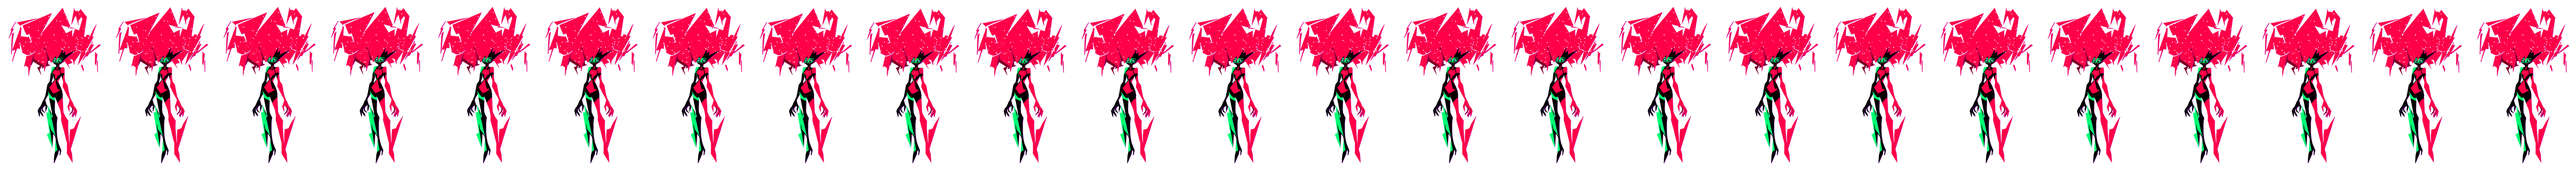
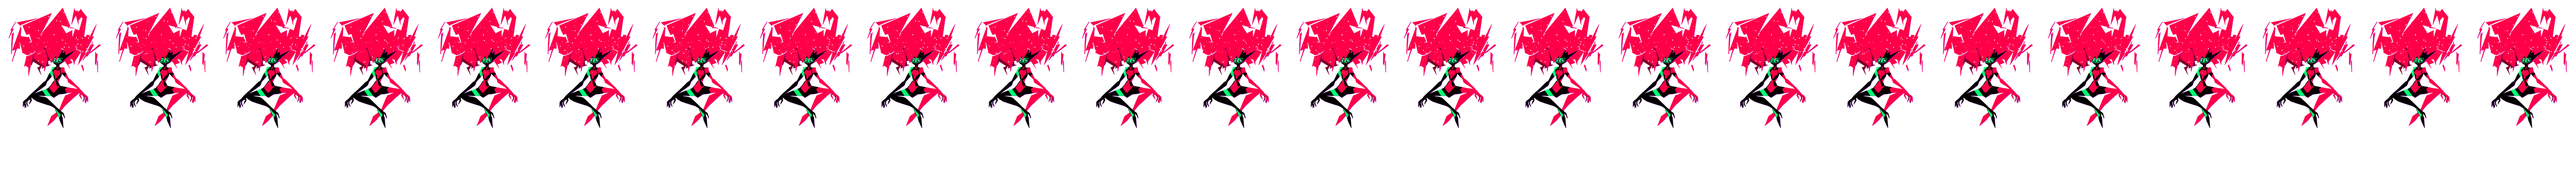
New fullscreen entrance intro, held pose, talking mouth, subtler vibe, faster startup

diff --git a/capri/desk/capri.py b/capri/desk/capri.py
@@ -23,7 +23,8 @@ from . import sfx as sfx_mod
 from .fx import CYAN, PINK, WHITE, Fx, FxLayer
 from .doormenu import INSIDE, DoorMenu
 from .mini import Chip, sample_chip
-from .portal import BOOT as SCREEN_BOOT, FACE as SCREEN_FACE, OUT as SCREEN_OFF, STAMP as SCREEN_STAMP, Portal
+from . import splash
+from .portal import FACE as SCREEN_FACE, Portal
 from .sprites import Sprites
 
 # chat box portrait: crop size, then where her face sits relative to head() standing / sitting (units of her size)
@@ -161,7 +162,8 @@ class Capri:
         self.grab = QPointF()
         self.hist: list[tuple[float, float, float]] = []
         self.intro_only_floor = False
-        self.portal = None  # the transmission card she arrives through (made on her first entrance)
+        self.portal = None  # the transmission card she leaves through (made when she quits)
+        self.entrance = None  # her intro flipbook (splash.py); its frames start loading right away when she has an intro
         self.told_zoomed = False
         self.greeting = None  # set by the app: () -> her hello line (a recorded one when her voice is on)
         self._screen_faces: dict = {}
@@ -180,6 +182,7 @@ class Capri:
             self.top_timer.timeout.connect(self._topmost)
             self.top_timer.start(1500)
         if intro:
+            self._new_entrance()
             QTimer.singleShot(400, self.drop_in)
         elif start:
             g = ledges.work_area(scr)
@@ -339,6 +342,8 @@ class Capri:
         target = pulse if playing else 0.0
         self.vibe = max(target, self.vibe * 0.88)
         self.fx.step(dt)
+        if self.entrance is not None and self.entrance.isVisible() and self.mode != "intro":
+            self.entrance.step()  # its last frame still fading out over her
         if self.portal is not None and self.portal.isVisible():
             self.portal.step()
             if self.portal.done:
@@ -381,7 +386,9 @@ class Capri:
         if self.blink and self.clip in ("idle", "perch") and 6 <= self.frame < 10:
             self.shown, self.frame = self.blink, self.frame - 6
         self.mouth = -1
-        if self.speaking and self.shown == "idle":
+        if self.speaking and self.shown == "grin":  # her hello lands mid-grin: talk with her mouth, not the grin
+            self.shown = "idle"
+        if self.speaking and self.shown in ("idle", "blink", "blink_glitch"):  # the mouth flaps over her standing face
             self.mouth = int(self.now * 12 + 0.5) % 5 if int(self.now * 12) % 4 else 0
 
     def draw(self, p: QPainter):
@@ -410,7 +417,7 @@ class Capri:
                 sy *= 1 - amt
                 sx *= 1 + amt * 0.7
         p.translate(self.A)
-        p.translate(0, (breathe if self.mode == "stand" else 0) - self.vibe * 3 * self.k)
+        p.translate(0, (breathe if self.mode == "stand" else 0) - self.vibe * 1.2 * self.k)  # a small bob on the beat
         p.rotate(self.angle + tilt)
         mid = 0.5 * self.S if self.mode == "bye" else 0.0
         p.translate(0, -mid)
@@ -425,7 +432,7 @@ class Capri:
             for dx, dy in ((-3, 0), (3, 0), (0, -3), (0, 3)):
                 p.drawPixmap(tl + QPointF(dx * self.k, dy * self.k), c.white(self.frame))
             p.restore()
-        if self.vibe > 0.35 and self.mode in ("stand", "perch") and self.white < 0.05:
+        if self.vibe > 0.5 and self.mode in ("stand", "perch") and self.white < 0.05:
             pm = self._vibed(c, pm)  # on the beat: bands of her hair jump sideways
         p.drawPixmap(tl, pm)
         if self.mouth >= 0:
@@ -564,10 +571,10 @@ class Capri:
         d, k, v = c.dpr, self.k, self.vibe
         top, bottom = c.h * (0.03 if self.mode == "stand" else 0.16), c.h * (0.42 if self.mode == "stand" else 0.45)
         rnd = random.Random(int(self.now * 12))
-        for _ in range(2 + (v > 0.7)):
-            hh = rnd.uniform(5, 14) * k
+        for _ in range(1 + (v > 0.85)):  # barely vibing: one thin band, a second only on a big beat
+            hh = rnd.uniform(3, 8) * k
             y0 = rnd.uniform(top, bottom - hh)
-            dx = rnd.choice((-1, 1)) * rnd.uniform(3, 9) * k * v
+            dx = rnd.choice((-1, 1)) * rnd.uniform(1, 3.5) * k * v
             band = QRectF(0, y0, c.w, hh)
             q.setCompositionMode(QPainter.CompositionMode_Clear)
             q.fillRect(band, Qt.transparent)
@@ -591,23 +598,21 @@ class Capri:
 
     # -- intro: the sky tears open and she drops out ------------------------------
     def drop_in(self, greet=True, x_frac=None):
-        """Her entrance: an "incoming transmission" card glides in at the top right and decrypts her signal, then
-        she pours out of it as a stream of pixels, rebuilds on your desktop and says hi."""
+        """Her entrance: the intro flipbook fills the screen, shrinks onto the spot she lands on, and she rebuilds
+        out of where it ends, then says hi. (x_frac is ignored: the animation picks where she lands.)"""
         self.bubble.close_bubble()
         scr = QGuiApplication.primaryScreen()
         work = ledges.work_area(scr)
-        self.ix = work.left() + work.width() * (x_frac if x_frac is not None else random.uniform(0.55, 0.8))
-        if self.portal is None:
-            self.portal = Portal(self.k, self._screen_face)
-        self.portal.start(work)  # the transmission card glides in at the top-right corner
-        self.iy = work.bottom() + 1
+        if self.entrance is None or self.entrance.S != self.S or self.entrance.done:
+            self._new_entrance()
+        self.entrance.landed = False
+        self.aim_at = (QRectF(scr.geometry()), work.bottom() + 1)  # fills the screen, ends where she lands
         self.body.hide()
         self.seat = None
         self.say_after = ((self.greeting() if self.greeting else None)
                           or random.choice(i18n.tlist("lines.greetings", GREETINGS))) if greet else None
         self.set_mode("intro")
-        self.stage = 0
-        self.sfx.play("tear")
+        self.sfx.play("charge")
 
     def _screen_face(self, t: float):
         """Her face for the card's avatar: the standing frames cropped round her head, blinking now and then."""
@@ -634,49 +639,29 @@ class Capri:
         self._screen_faces[key] = out
         return out
 
-    def _intro_step(self):
-        P = self.portal
-        t = P.t
-        P.step()
-        g = P.screen_rect()
-        c = g.center()
-        if self.stage == 0 and t > SCREEN_BOOT:  # brackets locked on: a quick ring of speed lines, the screen hums on
-            self.stage = 1
-            self.sfx.play("charge")
-            self.fx.burst(c.x(), c.y(), 8, r0=0.62 * g.height() / self.k, r1=110, life=0.3, width=(2, 6),
-                          colors=(WHITE, PINK))
-        elif self.stage == 1 and t > SCREEN_STAMP:  # the sticker slaps on: lines shoot out behind it
-            self.stage = 2
-            self.fx.burst(g.left() - 50 * self.k, c.y() + 0.18 * g.height(), 7, r0=30, r1=360, life=0.4,
-                          aim=160, spread=70, width=(4, 13))
-        elif self.stage == 2 and t > SCREEN_FACE:  # the screen is down to a dot: she pours out of it
-            self.stage = 3
-            self.fx.burst(c.x(), c.y(), 11, r0=12, r1=560, life=0.45, aim=125, spread=150, width=(5, 18))
-            self._break_out(g)
+    def _new_entrance(self):
+        scr = QGuiApplication.primaryScreen()
+        self.entrance = splash.Entrance(self.S, scr.geometry(), scr.devicePixelRatio())
 
-    def _break_out(self, glass: QRectF):
-        """Out of the dot the screen shut down to: her pixels pour out of it and fly down to the desktop."""
-        work = ledges.work_area(QGuiApplication.primaryScreen())
-        x = work.left() + work.width() * random.uniform(0.35, 0.85)  # a long arc down onto the taskbar
-        x = max(work.left() + 0.5 * self.S, min(work.right() - 0.6 * self.S, x))
-        L = next((f for f in ledges.floors() if f.holds(x)), ledges.floors()[0])
-        self.target = (L, x)
-        step = STREAM_STEP * self.k
-        cx, cy = glass.center().x(), glass.center().y()
-        c = self.sp["idle"]
-        ax, ay = c.anchor
-        src = [(cx + (px - cx) * 0.1, cy + (py - cy) * 0.1, col)  # her, squeezed into the dot
-               for px, py, col in c.sample(0, cx + (ax - 0.5) * c.w, cy + (ay - 0.5) * c.h, step)]
-        pair = self._pair(src, self._target_pixels(L, x, step), step)
-        self.sfx.play("stream")
-        self.fx.flash(cx, cy, 110, life=0.3, color=PINK)
-        self.fx.ring(cx, cy, 120, life=0.4, color=CYAN, width=2)
-        QTimer.singleShot(int((SCREEN_OFF - SCREEN_FACE) * 1000), lambda: self.sfx.play("throw"))
-        if pair:
-            self.stream_T = self.fx.start_stream(*pair, travel=1.0, spread=0.35)
-        else:
-            self.stream_T = 0.2
-        self.set_mode("stream")
+    def _intro_step(self):
+        E = self.entrance
+        if not E.started:  # its frames are still loading (a second at most): start once they're in
+            if not E.ready:
+                return
+            x = E.aim(*self.aim_at)
+            self.target = (next((f for f in ledges.floors() if f.holds(x)), ledges.floors()[0]), x)
+            E.start()
+            if E.done:  # no frames: she just rebuilds where she lands
+                return self.arrive()
+        E.step()
+        if E.landed:  # the animation ends on her: she rebuilds right there as it gets sucked into her
+            self.arrive()
+            cx, cy = self.center()
+            self.fx.flash(cx, cy, 190, life=0.45, color=WHITE)
+            self.fx.burst(cx, cy, 12, r0=0.35 * self.S / self.k, r1=420, life=0.4, width=(3, 12), colors=(WHITE, PINK, CYAN))
+            self.fx.ring(cx, cy, 260, life=0.5, color=PINK, width=2.4)
+            self.white = 1.0
+            self.squash_t, self.squash_amt = self.now, 0.16
 
     # -- falling (thrown, dropped, or knocked off a window) -------------------------
     def _fall_step(self, dt):
@@ -1227,7 +1212,9 @@ class Capri:
             timer = QTimer()
 
             def check():
-                if not self.talk_open and self.bubble.typed_all():
+                # done once it's all typed, or once the bubble got closed mid-line (grabbed, fell): it won't type on,
+                # and waiting for it would leave her talking (mouth flapping) forever
+                if not self.bubble.isVisible() or (not self.talk_open and self.bubble.typed_all()):
                     timer.stop()
                     QTimer.singleShot(200, ended)
 

diff --git a/capri/desk/splash.py b/capri/desk/splash.py
@@ -1,0 +1,166 @@
+"""Her entrance: a flipbook (assets/desk/splash/1.png ... N.png, HD) that fills the whole screen, then, as her pieces
+pull together in the last frames, zips down onto the spot she lands on and gets sucked into her as she rebuilds.
+The frames are loaded and pre-scaled to the screen in threads (sharp, and no stall at startup), and crossfade into
+each other on every tick, so it plays smoothly at any refresh rate."""
+from __future__ import annotations
+
+import threading
+import time
+from concurrent.futures import ThreadPoolExecutor
+
+import numpy as np
+from PySide6.QtCore import QPointF, QRect, QRectF, Qt
+from PySide6.QtGui import QImage, QPainter
+from PySide6.QtWidgets import QWidget
+
+from ..config import ASSETS
+
+FRAME = 0.055  # seconds per frame while it fills the screen
+FAST = 0.032  # seconds per frame once it shrinks onto her
+SHRINK_FROM = 14  # from this frame (0-based) on it shrinks from fullscreen down to her size
+BLEND = 0.4  # the last this-much of each frame crossfades into the next
+FADE_IN = 0.12
+FADE_OUT = 0.28  # after the last frame: it keeps shrinking into her and fades while she rebuilds
+END = (530 / 640, 370 / 480)  # where the animation ends, as a fraction of the frame: her body goes here
+END_H = 170 / 480  # how tall the end shape is, as a fraction of the frame; it ends up about her height
+
+
+def _smooth(x: float) -> float:
+    x = max(0.0, min(1.0, x))
+    return x * x * (3 - 2 * x)
+
+
+class Entrance(QWidget):
+    """aim(screen, floor_y) -> the x she lands at; start() once .ready; step() each tick. .landed turns True when
+    she should appear (it then shrinks into her and fades on its own), .done once it's gone."""
+
+    def __init__(self, size: int, screen: QRect, dpr: float):
+        super().__init__(None, Qt.FramelessWindowHint | Qt.Tool | Qt.WindowStaysOnTopHint | Qt.NoDropShadowWindowHint)
+        self.setAttribute(Qt.WA_TranslucentBackground)
+        self.setAttribute(Qt.WA_ShowWithoutActivating)
+        self.setAttribute(Qt.WA_TransparentForMouseEvents)
+        self.S = size
+        self.frames: list[tuple[QImage, QRectF]] = []  # each frame cropped to its content + where that sits (0..1)
+        self.fw, self.fh = 640, 480  # the frames' shape (overwritten once loaded)
+        self.k_full = 1.0
+        self.end_full = self.end_her = QPointF()
+        self.last, self.t = 0.0, 0.0
+        self.started = self.landed = self.done = False
+        self.ready = False
+        # cover size of this screen in device pixels: frames are scaled to exactly that once, so fullscreen is 1:1
+        self._cover = (screen.width() * dpr, screen.height() * dpr)
+        threading.Thread(target=self._load, daemon=True).start()
+
+    def _load(self):
+        files = sorted((ASSETS / "desk" / "splash").glob("*.png"), key=lambda p: int(p.stem) if p.stem.isdigit() else 0)
+        with ThreadPoolExecutor(4) as pool:  # PNG decoding is most of the time, and it runs in parallel: ~3x faster
+            out = [f for f in pool.map(self._load_one, files) if f is not None]
+        self.frames = out
+        self.done = not out
+        self.ready = True
+
+    def _load_one(self, f) -> tuple[QImage, QRectF] | None:
+        img = QImage(str(f))
+        if img.isNull():
+            return None
+        self.fw, self.fh = img.width(), img.height()
+        k = max(self._cover[0] / img.width(), self._cover[1] / img.height())
+        img = img.convertToFormat(QImage.Format_ARGB32_Premultiplied)
+        img = img.scaled(round(img.width() * k), round(img.height() * k), Qt.IgnoreAspectRatio, Qt.SmoothTransformation)
+        box = _content(img)
+        W, H = img.width(), img.height()
+        return img.copy(box), QRectF(box.x() / W, box.y() / H, box.width() / W, box.height() / H)
+
+    @property
+    def n(self) -> int:
+        return len(self.frames)
+
+    def start_of(self, i: int) -> float:
+        """When frame i starts."""
+        return min(i, SHRINK_FROM) * FRAME + max(0, i - SHRINK_FROM) * FAST
+
+    @property
+    def length(self) -> float:
+        return self.start_of(self.n)
+
+    def aim(self, screen: QRectF, floor_y: float) -> float:
+        """Covers this screen (whatever its size or shape); returns the x her feet land at: under where the
+        animation ends, on the floor."""
+        self.setGeometry(screen.toRect())
+        w, h = screen.width(), screen.height()
+        self.k_full = max(w / self.fw, h / self.fh)  # cover: no bars, no stretching
+        fw, fh = self.fw * self.k_full, self.fh * self.k_full
+        self.end_full = QPointF((w - fw) / 2 + END[0] * fw, (h - fh) / 2 + END[1] * fh)  # widget coords
+        x = screen.left() + self.end_full.x() + 0.05 * self.S  # her center() is 0.05 S left of her feet
+        x = max(screen.left() + 0.5 * self.S, min(screen.right() - 0.6 * self.S, x))
+        self.end_her = QPointF(x - 0.05 * self.S - screen.left(), floor_y - 0.5 * self.S - screen.top())
+        return x
+
+    def start(self):
+        self.last, self.t = time.monotonic(), 0.0
+        self.started = True
+        self.landed = self.done = not self.frames
+        if self.frames:
+            self.show()
+            self.raise_()
+
+    def step(self):
+        if self.done or not self.started:
+            return
+        now = time.monotonic()
+        self.t += min(0.05, now - self.last)  # a hitch (her brain loading at startup) pauses it instead of skipping
+        self.last = now
+        if self.t >= self.length:
+            self.landed = True
+        if self.t >= self.length + FADE_OUT:
+            self.done = True
+            self.hide()
+            return
+        self.update()
+
+    def _frame_at(self, t: float) -> tuple[int, float]:
+        """(frame index, 0..1 crossfade into the next one) at time t."""
+        for i in range(self.n - 1, -1, -1):
+            if t >= self.start_of(i):
+                if i == self.n - 1:
+                    return i, 0.0
+                d = self.start_of(i + 1) - self.start_of(i)
+                return i, _smooth(((t - self.start_of(i)) / d - (1 - BLEND)) / BLEND)
+        return 0, 0.0
+
+    def paintEvent(self, e):
+        if not self.frames:
+            return
+        t = self.t
+        i, mix = self._frame_at(t)
+        s0, s1 = self.start_of(SHRINK_FROM), self.length
+        z = _smooth((t - s0) / (s1 - s0)) if t < s1 else 1.0  # 0 fullscreen .. 1 her size, onto her
+        k_end = 0.8 * self.S / (END_H * self.fh)
+        k = self.k_full * (k_end / self.k_full) ** z
+        alpha = _smooth(t / FADE_IN)
+        if t > s1:  # landed: it keeps shrinking into her body and fades
+            u = _smooth((t - s1) / FADE_OUT)
+            k *= 1 - 0.55 * u
+            alpha *= 1 - u
+        end = self.end_full + (self.end_her - self.end_full) * z
+        fw, fh = self.fw * k, self.fh * k
+        x0, y0 = end.x() - END[0] * fw, end.y() - END[1] * fh
+        p = QPainter(self)
+        p.setRenderHint(QPainter.SmoothPixmapTransform, z > 0)  # fullscreen it's drawn 1:1, no resampling
+        for j, a in ((i, 1 - mix), (i + 1, mix)):
+            if a <= 0 or j >= self.n:
+                continue
+            img, r = self.frames[j]
+            p.setOpacity(alpha * a)
+            p.drawImage(QRectF(x0 + r.x() * fw, y0 + r.y() * fh, r.width() * fw, r.height() * fh), img)
+        p.end()
+
+
+def _content(img: QImage) -> QRect:
+    """The part of the image that isn't fully transparent (whole image if it's all content)."""
+    alpha = img.convertToFormat(QImage.Format_Alpha8)
+    a = np.frombuffer(alpha.constBits(), np.uint8).reshape(alpha.height(), alpha.bytesPerLine())[:, :alpha.width()]
+    ys, xs = np.nonzero(a.any(1))[0], np.nonzero(a.any(0))[0]
+    if not len(ys):
+        return img.rect()
+    return QRect(int(xs[0]), int(ys[0]), int(xs[-1] - xs[0] + 1), int(ys[-1] - ys[0] + 1))

diff --git a/capri/desk/sprites.py b/capri/desk/sprites.py
@@ -88,7 +88,9 @@ class Sprites:
     def __init__(self, size: int, dpr: float = 1.0, folder: Path = SPRITES):  # folder: her skin (capri/skins.py)
         self.size = size
         self.clips = {name: Clip(name, size, dpr, folder) for name in CLIPS}
-        for name in ("blink", "blink_glitch", "grin", "glitch", "wake", "mouth"):  # same stance as idle: no foot jitter
+        # same canvas as idle: no foot jitter (dangle is her held pose, drawn on the same canvas, so grabbing her
+        # doesn't make her jump to wherever that pose's feet are)
+        for name in ("blink", "blink_glitch", "grin", "glitch", "wake", "mouth", "dangle"):
             self.clips[name].anchor = self.clips["idle"].anchor
         self.palette = _palette(folder / "idle.png")
 

diff --git a/capri/config.py b/capri/config.py
@@ -33,7 +33,7 @@ DEFAULTS: dict = {
         "size": 240,  # her height in pixels
         "video_size": 360,  # her height in video mode (big enough for a 9:16 phone crop)
         "roam_seconds": [18, 40],  # she zaps somewhere new every this-many seconds
-        "intro": True,  # the drop-in from the top of the screen on launch
+        "intro": True,  # her entrance on launch (the assets/desk/splash flipbook: fullscreen, then shrinks onto her)
         # these four are first-run defaults; after that her right-click menu remembers your choice
         "dj": False,  # let her swap your YouTube music for Cyberpunk OSTs when she thinks it's not nova
         "vibe": True,  # her hair glitches to the beat of whatever's playing

diff --git a/README.md b/README.md
@@ -1,5 +1,5 @@
 <p align="center">
-  <img src="docs/images/entrance.gif" height="260" alt="Capri's entrance: a signal-lock screen in the corner, then she pours out of it as pixels">
+  <img src="docs/images/entrance.gif" height="260" alt="Capri's entrance: a fullscreen glitch animation that shrinks down onto your desktop, and she bursts out of it">
   <img src="docs/images/talking.gif" height="260" alt="Capri talking in her speech bubble">
 </p>
 <p align="center">
@@ -71,7 +71,7 @@
 
 ## First start
 
-- She drops in through a little signal-lock screen in the top-right corner and says hi.
+- She bursts in: a glitchy animation fills your screen, shrinks down onto your desktop, and she pops out of it and says hi.
 - **Click her** to type to her. **Hold `Ctrl+1`** to talk (change the key: right-click her → *Ears*).
 - **Right-click her** and a door opens beside her with her menu inside: her brain (swap models live, or download a
   new one right there), ears, skins, size, *Go mini*, roam, quit.
